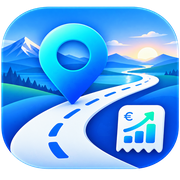
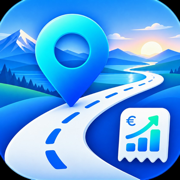
Icône du site en 192 px, nette dans les résultats Google

diff --git a/modele-excel-frais-kilometriques.html b/modele-excel-frais-kilometriques.html
@@ -14,7 +14,7 @@
 <meta property="og:url" content="https://kmpro.app/modele-excel-frais-kilometriques.html">
 <meta property="og:image" content="https://kmpro.app/assets/og-image.jpg">
 <meta name="twitter:card" content="summary_large_image">
-<link rel="icon" type="image/png" href="assets/favicon.png">
+<link rel="icon" type="image/png" sizes="192x192" href="assets/favicon.png">
 <link rel="apple-touch-icon" href="assets/apple-touch-icon.png">
 <style>
 :root{--ground:#F4F7FB;--surface:#FFFFFF;--surface-2:#EEF3F9;--ink:#0B1A2E;--ink-2:#34445B;--muted:#627289;--line:#DAE3EE;--blue:#1F6BEB;--blue-deep:#1552C9;--sky:#DCE9FF;--green:#1E7F4F;--r-m:16px;--r-l:20px;--shadow-soft:0 12px 32px rgba(11,26,46,.08);--mono:ui-monospace,SFMono-Regular,Menlo,monospace;color-scheme:light}

diff --git a/frais-reels-vehicule-personnel.html b/frais-reels-vehicule-personnel.html
@@ -14,7 +14,7 @@
 <meta property="og:url" content="https://kmpro.app/frais-reels-vehicule-personnel.html">
 <meta property="og:image" content="https://kmpro.app/assets/og-image.jpg">
 <meta name="twitter:card" content="summary_large_image">
-<link rel="icon" type="image/png" href="assets/favicon.png">
+<link rel="icon" type="image/png" sizes="192x192" href="assets/favicon.png">
 <link rel="apple-touch-icon" href="assets/apple-touch-icon.png">
 <style>
 :root{--ground:#F4F7FB;--surface:#FFFFFF;--surface-2:#EEF3F9;--ink:#0B1A2E;--ink-2:#34445B;--muted:#627289;--line:#DAE3EE;--blue:#1F6BEB;--blue-deep:#1552C9;--sky:#DCE9FF;--green:#1E7F4F;--r-m:16px;--r-l:20px;--shadow-soft:0 12px 32px rgba(11,26,46,.08);--mono:ui-monospace,SFMono-Regular,Menlo,monospace;color-scheme:light}

diff --git a/indemnites-kilometriques-2026.html b/indemnites-kilometriques-2026.html
@@ -14,7 +14,7 @@
 <meta property="og:url" content="https://kmpro.app/indemnites-kilometriques-2026.html">
 <meta property="og:image" content="https://kmpro.app/assets/og-image.jpg">
 <meta name="twitter:card" content="summary_large_image">
-<link rel="icon" type="image/png" href="assets/favicon.png">
+<link rel="icon" type="image/png" sizes="192x192" href="assets/favicon.png">
 <link rel="apple-touch-icon" href="assets/apple-touch-icon.png">
 <style>
 :root{--ground:#F4F7FB;--surface:#FFFFFF;--surface-2:#EEF3F9;--ink:#0B1A2E;--ink-2:#34445B;--muted:#627289;--line:#DAE3EE;--blue:#1F6BEB;--blue-deep:#1552C9;--sky:#DCE9FF;--green:#1E7F4F;--r-m:16px;--r-l:20px;--shadow-soft:0 12px 32px rgba(11,26,46,.08);--mono:ui-monospace,SFMono-Regular,Menlo,monospace;color-scheme:light}

diff --git a/calculer-frais-kilometriques.html b/calculer-frais-kilometriques.html
@@ -14,7 +14,7 @@
 <meta property="og:url" content="https://kmpro.app/calculer-frais-kilometriques.html">
 <meta property="og:image" content="https://kmpro.app/assets/og-image.jpg">
 <meta name="twitter:card" content="summary_large_image">
-<link rel="icon" type="image/png" href="assets/favicon.png">
+<link rel="icon" type="image/png" sizes="192x192" href="assets/favicon.png">
 <link rel="apple-touch-icon" href="assets/apple-touch-icon.png">
 <style>
 :root{--ground:#F4F7FB;--surface:#FFFFFF;--surface-2:#EEF3F9;--ink:#0B1A2E;--ink-2:#34445B;--muted:#627289;--line:#DAE3EE;--blue:#1F6BEB;--blue-deep:#1552C9;--sky:#DCE9FF;--green:#1E7F4F;--r-m:16px;--r-l:20px;--shadow-soft:0 12px 32px rgba(11,26,46,.08);--mono:ui-monospace,SFMono-Regular,Menlo,monospace;color-scheme:light}

diff --git a/note-de-frais-kilometrique.html b/note-de-frais-kilometrique.html
@@ -14,7 +14,7 @@
 <meta property="og:url" content="https://kmpro.app/note-de-frais-kilometrique.html">
 <meta property="og:image" content="https://kmpro.app/assets/og-image.jpg">
 <meta name="twitter:card" content="summary_large_image">
-<link rel="icon" type="image/png" href="assets/favicon.png">
+<link rel="icon" type="image/png" sizes="192x192" href="assets/favicon.png">
 <link rel="apple-touch-icon" href="assets/apple-touch-icon.png">
 <style>
 :root{--ground:#F4F7FB;--surface:#FFFFFF;--surface-2:#EEF3F9;--ink:#0B1A2E;--ink-2:#34445B;--muted:#627289;--line:#DAE3EE;--blue:#1F6BEB;--blue-deep:#1552C9;--sky:#DCE9FF;--green:#1E7F4F;--r-m:16px;--r-l:20px;--shadow-soft:0 12px 32px rgba(11,26,46,.08);--mono:ui-monospace,SFMono-Regular,Menlo,monospace;color-scheme:light}

diff --git a/bareme-kilometrique-2025.html b/bareme-kilometrique-2025.html
@@ -14,7 +14,7 @@
 <meta property="og:url" content="https://kmpro.app/bareme-kilometrique-2025.html">
 <meta property="og:image" content="https://kmpro.app/assets/og-image.jpg">
 <meta name="twitter:card" content="summary_large_image">
-<link rel="icon" type="image/png" href="assets/favicon.png">
+<link rel="icon" type="image/png" sizes="192x192" href="assets/favicon.png">
 <link rel="apple-touch-icon" href="assets/apple-touch-icon.png">
 <style>
 :root{--ground:#F4F7FB;--surface:#FFFFFF;--surface-2:#EEF3F9;--ink:#0B1A2E;--ink-2:#34445B;--muted:#627289;--line:#DAE3EE;--blue:#1F6BEB;--blue-deep:#1552C9;--sky:#DCE9FF;--green:#1E7F4F;--r-m:16px;--r-l:20px;--shadow-soft:0 12px 32px rgba(11,26,46,.08);--mono:ui-monospace,SFMono-Regular,Menlo,monospace;color-scheme:light}

diff --git a/bareme-kilometrique-2026.html b/bareme-kilometrique-2026.html
@@ -14,7 +14,7 @@
 <meta property="og:url" content="https://kmpro.app/bareme-kilometrique-2026.html">
 <meta property="og:image" content="https://kmpro.app/assets/og-image.jpg">
 <meta name="twitter:card" content="summary_large_image">
-<link rel="icon" type="image/png" href="assets/favicon.png">
+<link rel="icon" type="image/png" sizes="192x192" href="assets/favicon.png">
 <link rel="apple-touch-icon" href="assets/apple-touch-icon.png">
 <style>
 :root{--ground:#F4F7FB;--surface:#FFFFFF;--surface-2:#EEF3F9;--ink:#0B1A2E;--ink-2:#34445B;--muted:#627289;--line:#DAE3EE;--blue:#1F6BEB;--blue-deep:#1552C9;--sky:#DCE9FF;--green:#1E7F4F;--r-m:16px;--r-l:20px;--shadow-soft:0 12px 32px rgba(11,26,46,.08);--mono:ui-monospace,SFMono-Regular,Menlo,monospace;color-scheme:light}

diff --git a/bareme-fiscal-voiture.html b/bareme-fiscal-voiture.html
@@ -14,7 +14,7 @@
 <meta property="og:url" content="https://kmpro.app/bareme-fiscal-voiture.html">
 <meta property="og:image" content="https://kmpro.app/assets/og-image.jpg">
 <meta name="twitter:card" content="summary_large_image">
-<link rel="icon" type="image/png" href="assets/favicon.png">
+<link rel="icon" type="image/png" sizes="192x192" href="assets/favicon.png">
 <link rel="apple-touch-icon" href="assets/apple-touch-icon.png">
 <style>
 :root{--ground:#F4F7FB;--surface:#FFFFFF;--surface-2:#EEF3F9;--ink:#0B1A2E;--ink-2:#34445B;--muted:#627289;--line:#DAE3EE;--blue:#1F6BEB;--blue-deep:#1552C9;--sky:#DCE9FF;--green:#1E7F4F;--r-m:16px;--r-l:20px;--shadow-soft:0 12px 32px rgba(11,26,46,.08);--mono:ui-monospace,SFMono-Regular,Menlo,monospace;color-scheme:light}

diff --git a/comptables.html b/comptables.html
@@ -14,7 +14,7 @@
 <meta property="og:url" content="https://kmpro.app/comptables.html">
 <meta property="og:image" content="https://kmpro.app/assets/og-image.jpg">
 <meta name="twitter:card" content="summary_large_image">
-<link rel="icon" type="image/png" href="assets/favicon.png">
+<link rel="icon" type="image/png" sizes="192x192" href="assets/favicon.png">
 <link rel="apple-touch-icon" href="assets/apple-touch-icon.png">
 <style>
 :root{--ground:#F4F7FB;--surface:#FFFFFF;--surface-2:#EEF3F9;--ink:#0B1A2E;--ink-2:#34445B;--muted:#627289;--line:#DAE3EE;--blue:#1F6BEB;--blue-deep:#1552C9;--sky:#DCE9FF;--green:#1E7F4F;--r-m:16px;--r-l:20px;--shadow-soft:0 12px 32px rgba(11,26,46,.08);--mono:ui-monospace,SFMono-Regular,Menlo,monospace;color-scheme:light}

diff --git a/mentions-legales.html b/mentions-legales.html
@@ -5,7 +5,7 @@
 <meta name="viewport" content="width=device-width, initial-scale=1">
 <title>Mentions légales — KmPro</title>
 <meta name="description" content="Mentions légales du site kmpro.app : éditeur, directeur de la publication et hébergeur.">
-<link rel="icon" type="image/png" href="assets/favicon.png">
+<link rel="icon" type="image/png" sizes="192x192" href="assets/favicon.png">
 <link rel="apple-touch-icon" href="assets/apple-touch-icon.png">
 <style>
   :root{--ground:#F4F7FB;--surface:#FFFFFF;--ink:#0B1A2E;--ink-2:#34445B;--muted:#627289;--line:#DAE3EE;--blue:#1F6BEB;--blue-deep:#1552C9;color-scheme:light}

diff --git a/404.html b/404.html
@@ -5,7 +5,7 @@
 <meta name="viewport" content="width=device-width, initial-scale=1">
 <meta name="robots" content="noindex, follow">
 <title>Page introuvable — KmPro</title>
-<link rel="icon" type="image/png" href="/assets/favicon.png">
+<link rel="icon" type="image/png" sizes="192x192" href="/assets/favicon.png">
 <link rel="apple-touch-icon" href="/assets/apple-touch-icon.png">
 <style>
   :root{--ground:#F4F7FB;--surface:#FFFFFF;--ink:#0B1A2E;--ink-2:#34445B;--muted:#627289;--blue:#1F6BEB;--blue-deep:#1552C9;color-scheme:light}

diff --git a/pdf/index.html b/pdf/index.html
@@ -6,7 +6,7 @@
 <meta name="robots" content="noindex, follow">
 <title>KmPro — la plaquette</title>
 <meta name="description" content="KmPro en cinq pages : vos kilomètres professionnels déjà calculés, sur iPhone et Mac.">
-<link rel="icon" type="image/png" href="../assets/favicon.png">
+<link rel="icon" type="image/png" sizes="192x192" href="../assets/favicon.png">
 <link rel="apple-touch-icon" href="../assets/apple-touch-icon.png">
 <meta property="og:type" content="website">
 <meta property="og:locale" content="fr_FR">
